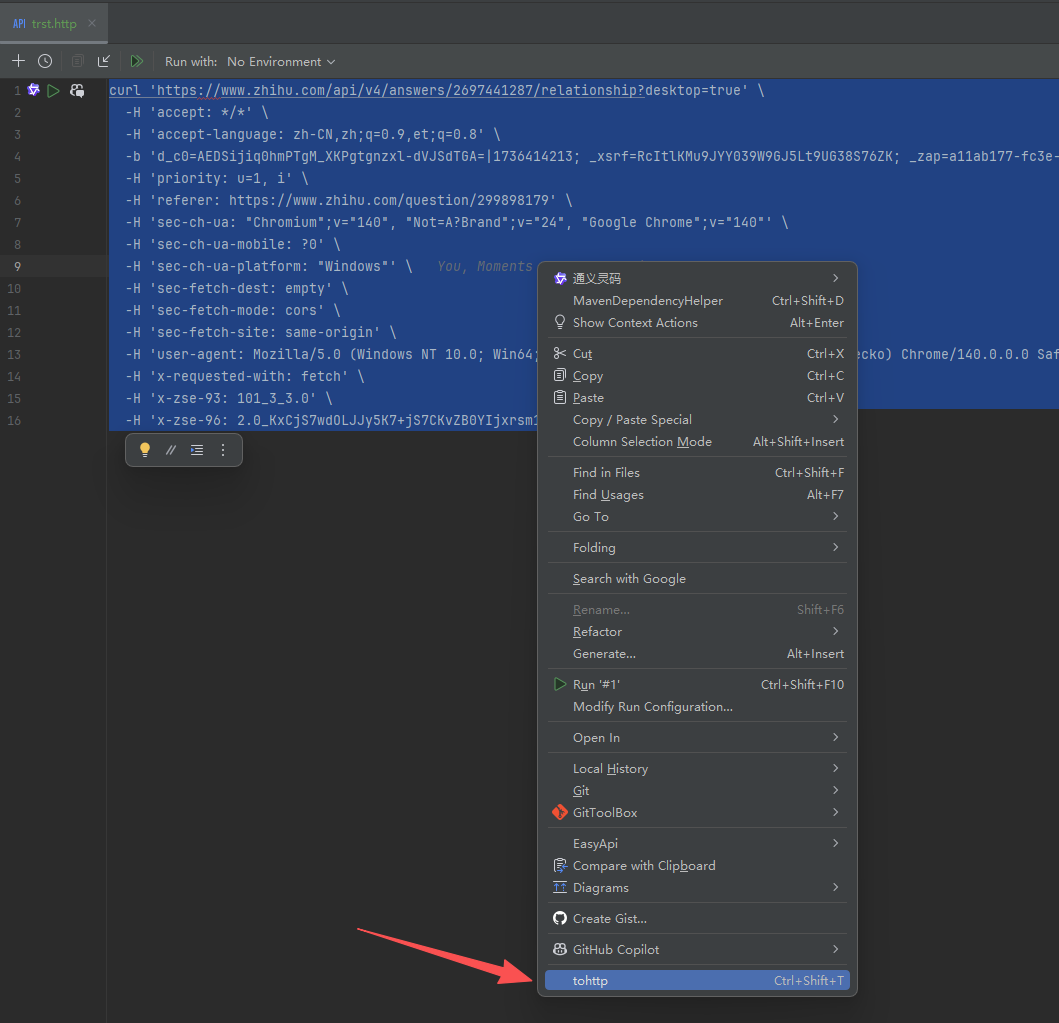
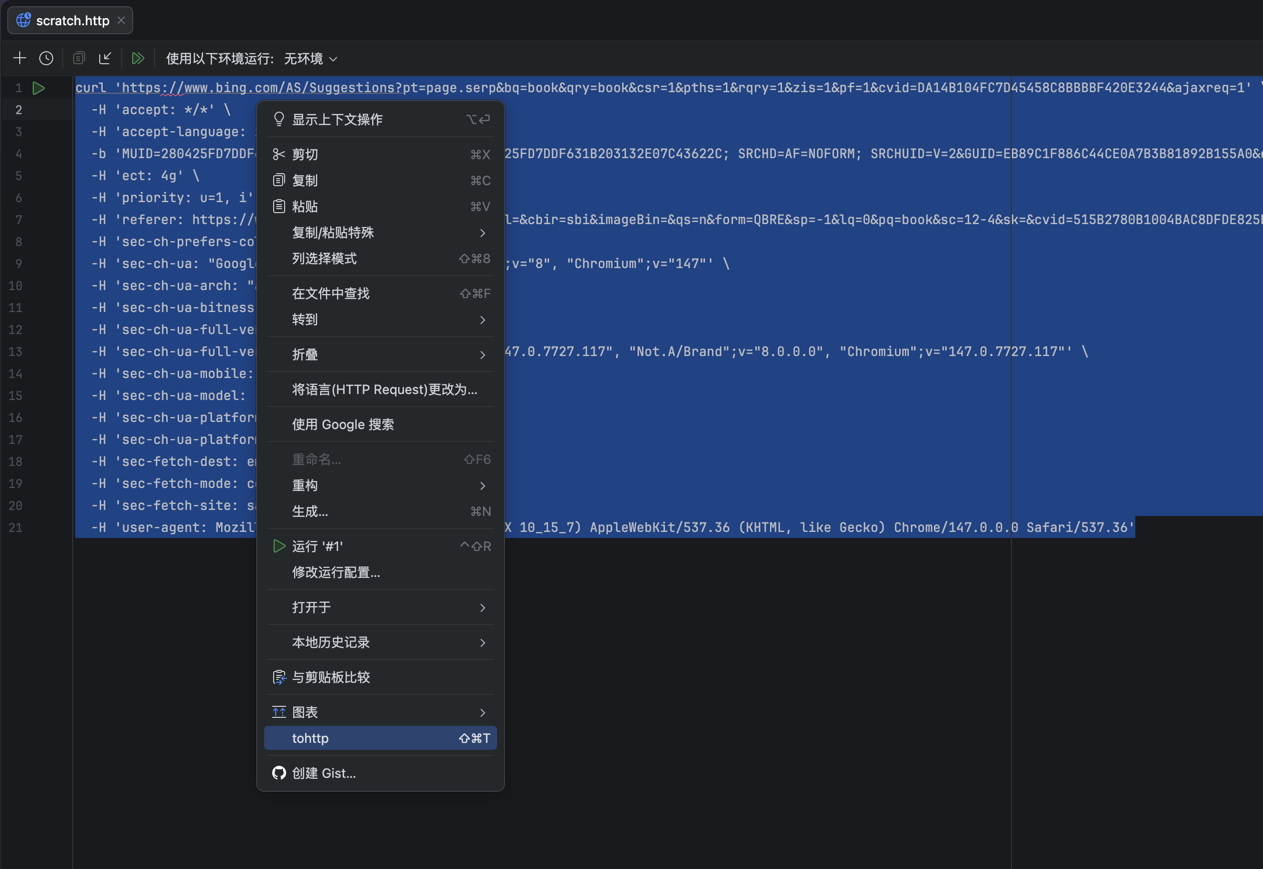
优化图片和介绍

diff --git a/README.md b/README.md
@@ -1,13 +1,18 @@
+# 使用场景
+需要把浏览器的http请求，复制到idea的http文件中重放时使用
+
 # 打包命令
 ./gradlew buildPlugin
 
 
 # 使用方法
 ## 从浏览器的network将http请求复制成curl（bash）格式
+![img_0.png](img_0.png)
 
-![img.png](img.png)
-
-## 选中复制的curl代码，右键，点击tohttp,转成http插件代码后可直接在idea运行
+## 选中复制的curl代码，右键，点击tohttp
 ![img_1.png](img_1.png)
 
-## 配置了快捷键  选中curl代码后：ctrl+shift+t
+## 转成http插件代码后可直接在idea运行
+![img_2.png](img_2.png)
+
+## 也可以使用快捷键进行转换：选中curl代码按 ctrl+shift+t
